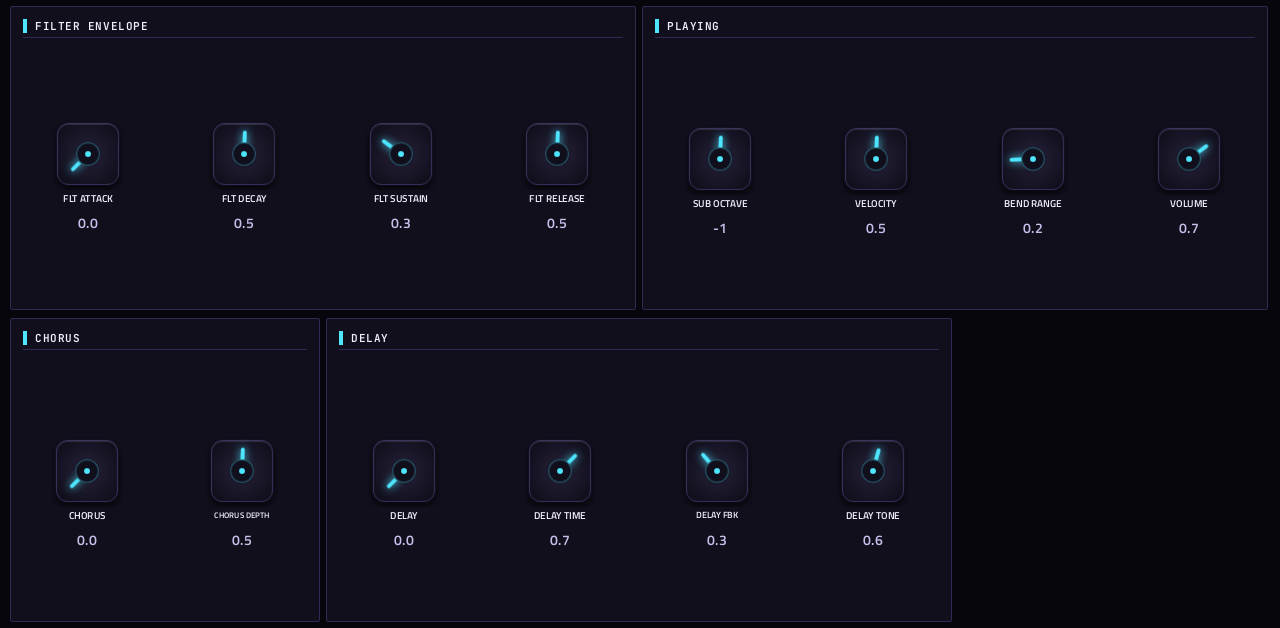
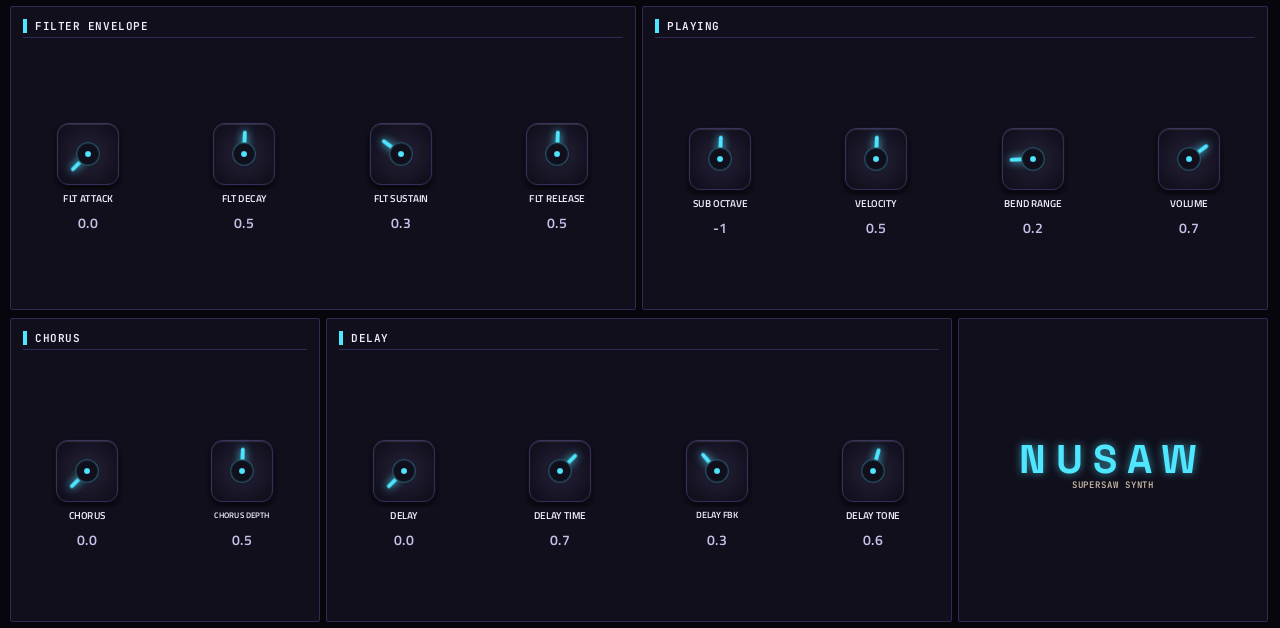
NuSaw: design QA -- a Q-Link column per panel, displays on the left

Changed region(s): [[0.7812, 0.6959, 0.9375, 0.7866]]

diff --git a/DESIGN-QA.md b/DESIGN-QA.md
@@ -1,0 +1,30 @@
+# Design QA: NuSaw
+
+Status: done offline (2026-10-03), **waiting for the device check**.
+
+## Owner's notes
+None specific; checked against the batch rules (one Q-Link column per panel, as Moog; outlines that frame one
+panel; displays on the left, controls on the right).
+
+## What changed
+Q-Link columns before → after ("-" = an empty slot):
+
+| Page | before | after |
+|---|---|---|
+| MAIN | 1 PATCH, SAWS, DETUNE, SPREAD  ·  2 SUB LEVEL, CUTOFF, RESONANCE, ENV MOD  ·  3 ATTACK, DECAY, SUSTAIN, RELEASE | 1 SAWS, DETUNE, SPREAD, SUB LEVEL  ·  2 CUTOFF, RESONANCE, ENV MOD  ·  3 ATTACK, DECAY, SUSTAIN, RELEASE  ·  4 PATCH |
+| MORE | 1 FLT ATTACK, FLT DECAY, FLT SUSTAIN, FLT RELEASE  ·  2 SUB OCTAVE, VELOCITY, BEND RANGE, VOLUME  ·  3 CHORUS, CHORUS DEPTH, DELAY, DELAY TIME  ·  4 DELAY FBK, DELAY TONE | 1 FLT ATTACK, FLT DECAY, FLT SUSTAIN, FLT RELEASE  ·  2 SUB OCTAVE, VELOCITY, BEND RANGE, VOLUME  ·  3 CHORUS, CHORUS DEPTH  ·  4 DELAY, DELAY TIME, DELAY FBK, DELAY TONE |
+
+- **MAIN**: column 1's outline took in the PROGRAM and SAWS panels, column 2's SAWS and FILTER. Now SAWS | FILTER |
+  AMP ENVELOPE | PATCH (the patch last, as on Aphex and MonkSynth). The scope moved to the left of the PROGRAM panel
+  and the filter curve to the left of the FILTER panel, with the controls on the right.
+- **MORE**: CHORUS and DELAY get a column each (the delay had been split over two). A NUSAW wordmark fills the empty
+  corner.
+- The ADSR slider strips were rebuilt with the slider fix (the "silly" slider animation seen on Braids).
+
+Made in the design (convert.py MAPS `augment` / `qlinks`, and an `art` plate) and re-converted, so a rerun keeps it.
+
+## Presets
+27 built-in patches, in MPC's PRESET menu (unchanged).
+
+## Checked
+Offline test PASSED; check_skin OK; no Q-Link outlines overlap on either page (qlink_overlay.py).

diff --git a/README.md b/README.md
@@ -24,13 +24,13 @@ Screenshots are rendered from the built skin with the engine's real values right
 
 <img src="screenshots/page_0.png" width="760" alt="NuSaw, page MAIN">
 
-Q-Link columns: **1** PATCH, SAWS, DETUNE, SPREAD  ·  **2** SUB LEVEL, CUTOFF, RESONANCE, ENV MOD  ·  **3** ATTACK, DECAY, SUSTAIN, RELEASE
+Q-Link columns: **1** SAWS, DETUNE, SPREAD, SUB LEVEL  ·  **2** CUTOFF, RESONANCE, ENV MOD  ·  **3** ATTACK, DECAY, SUSTAIN, RELEASE  ·  **4** PATCH
 
 ### 2. MORE
 
 <img src="screenshots/page_1.png" width="760" alt="NuSaw, page MORE">
 
-Q-Link columns: **1** FLT ATTACK, FLT DECAY, FLT SUSTAIN, FLT RELEASE  ·  **2** SUB OCTAVE, VELOCITY, BEND RANGE, VOLUME  ·  **3** CHORUS, CHORUS DEPTH, DELAY, DELAY TIME  ·  **4** DELAY FBK, DELAY TONE
+Q-Link columns: **1** FLT ATTACK, FLT DECAY, FLT SUSTAIN, FLT RELEASE  ·  **2** SUB OCTAVE, VELOCITY, BEND RANGE, VOLUME  ·  **3** CHORUS, CHORUS DEPTH  ·  **4** DELAY, DELAY TIME, DELAY FBK, DELAY TONE
 
 ## Install
 
